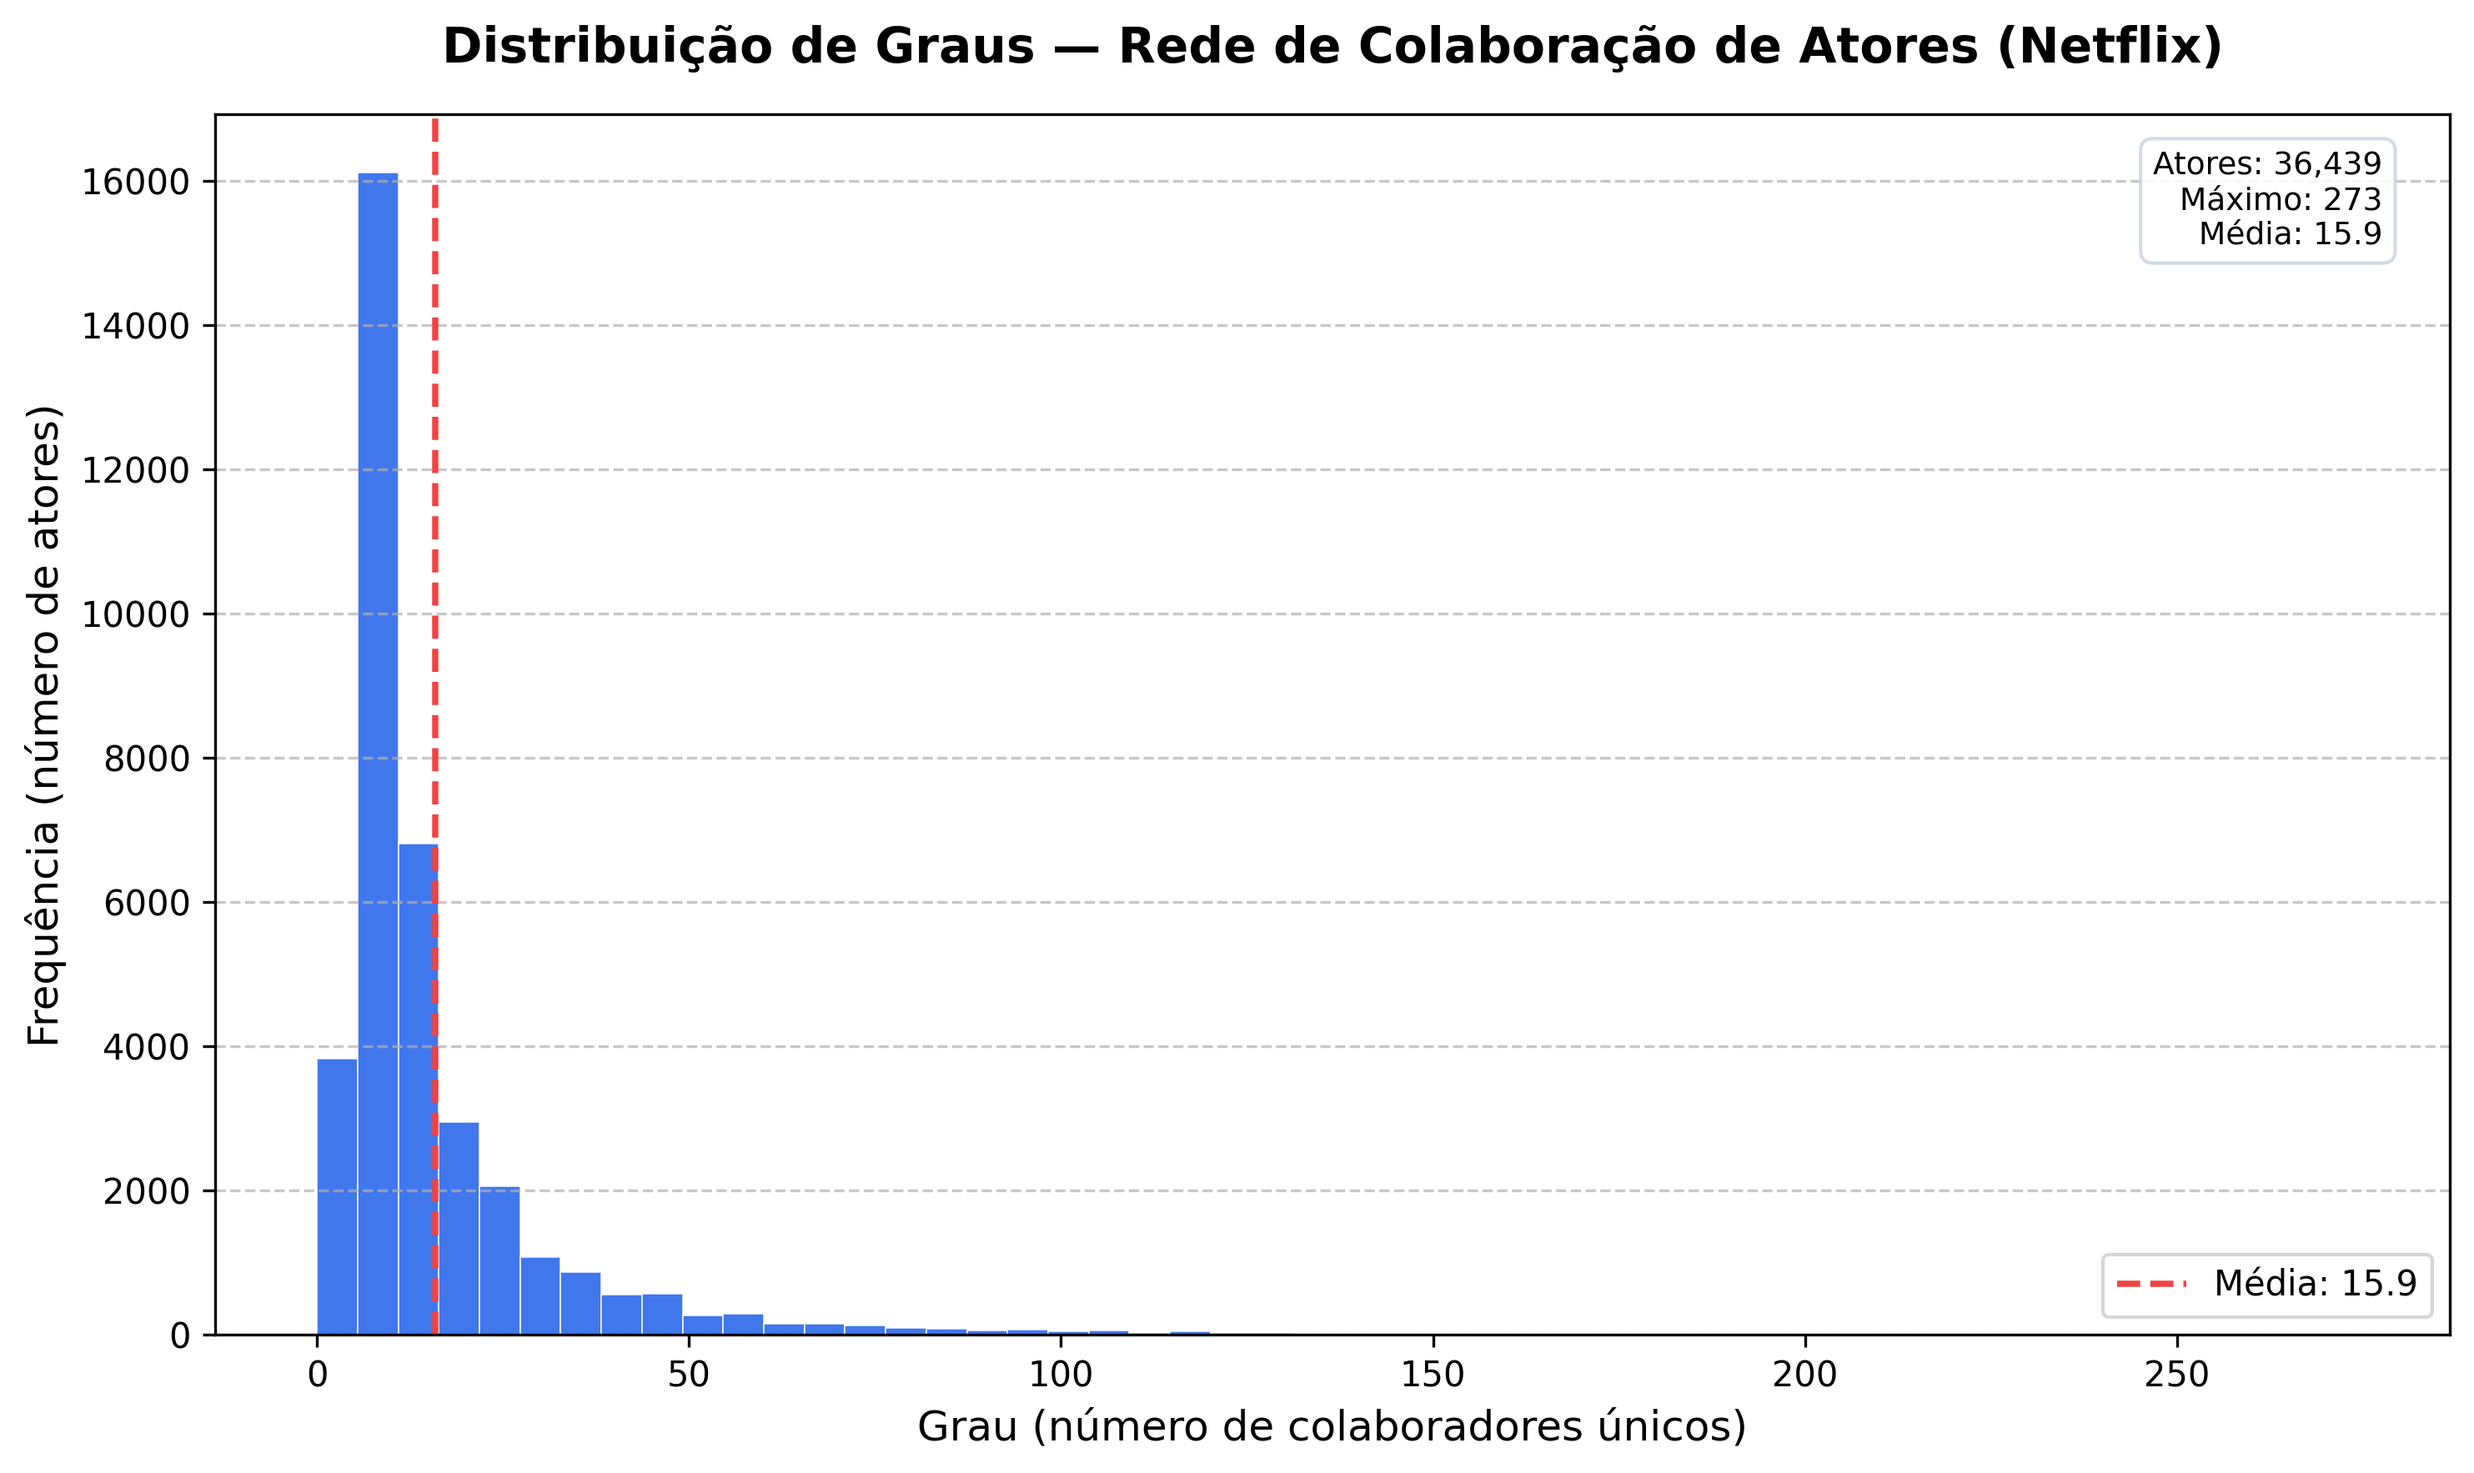
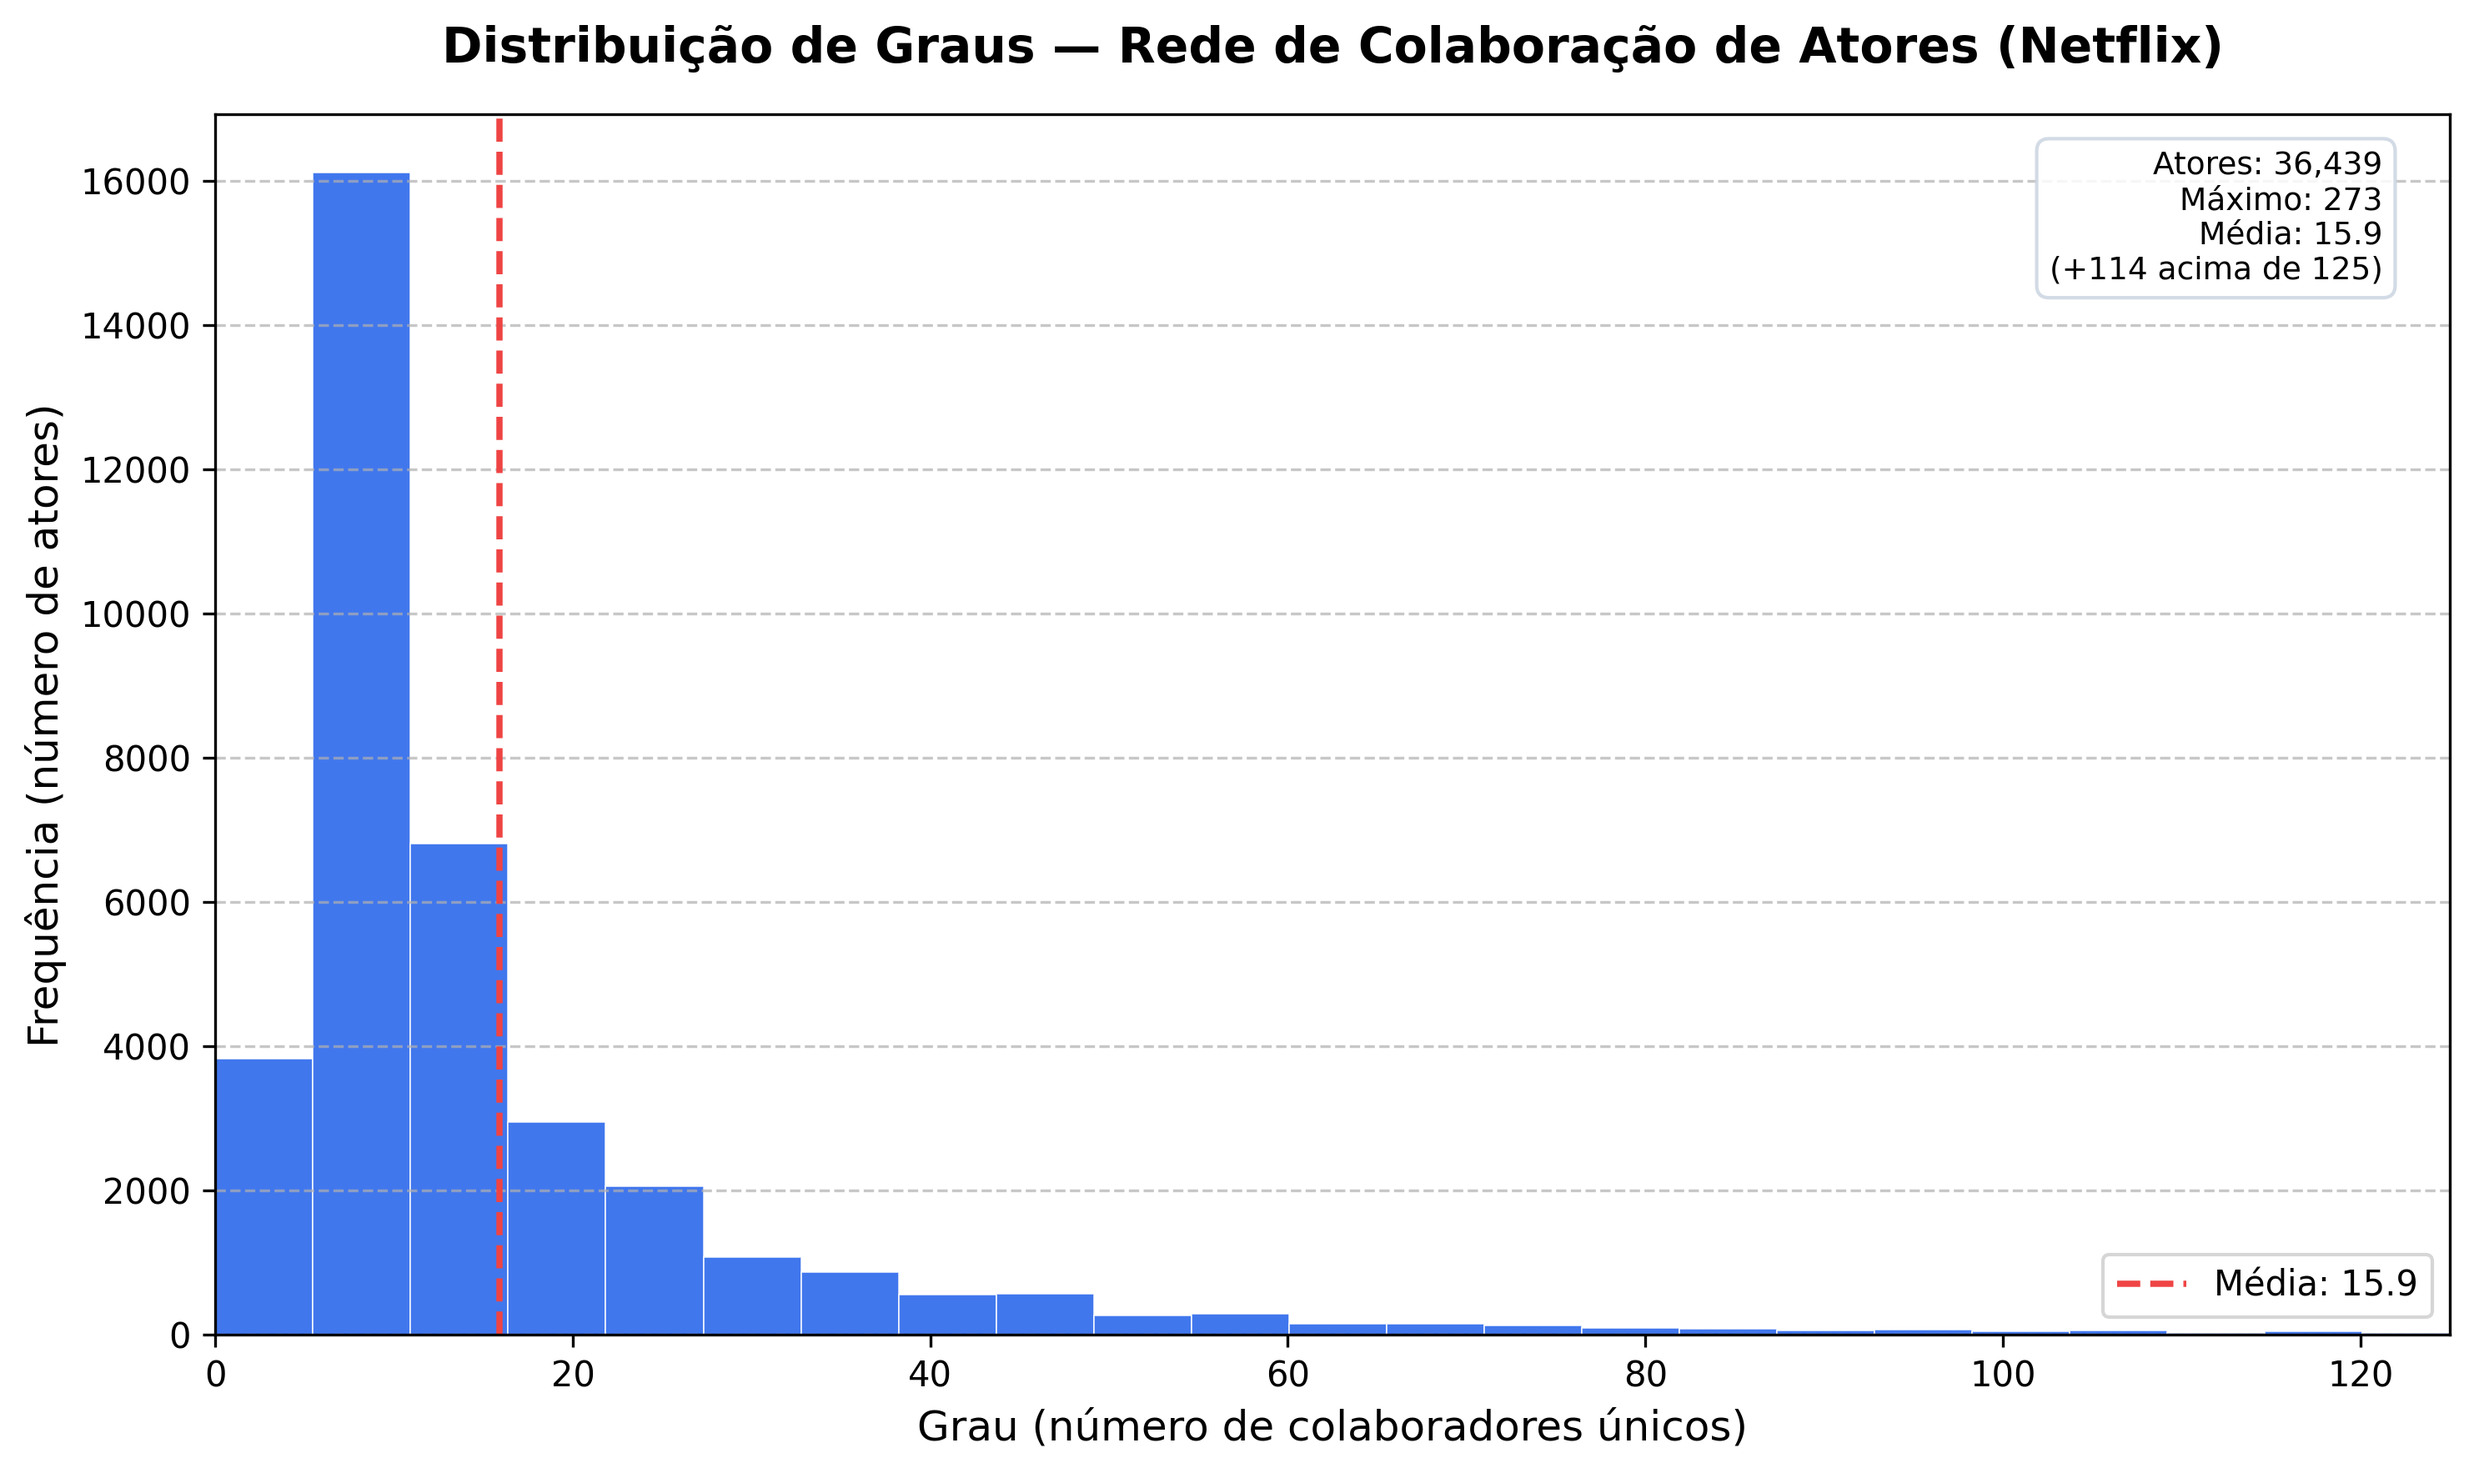
style: ajusta limites e titulos nos graficos da parte 2

diff --git a/src/solve.py b/src/solve.py
@@ -384,10 +384,12 @@ def gerar_distribuicao_graus_parte2(grafo, pasta_saida: str = 'out') -> str:
     )
     ax.set_xlabel('Grau (número de colaboradores únicos)', fontsize=12)
     ax.set_ylabel('Frequência (número de atores)', fontsize=12)
+    ax.set_xlim(0, 125)
     ax.grid(axis='y', linestyle='--', alpha=0.7)
     ax.legend(fontsize=10)
 
-    stats = f'Atores: {len(graus):,}\nMáximo: {maximo}\nMédia: {media:.1f}'
+    fora_janela = sum(1 for g in graus if g > 125)
+    stats = f'Atores: {len(graus):,}\nMáximo: {maximo}\nMédia: {media:.1f}\n(+{fora_janela} acima de 125)'
     ax.text(0.97, 0.97, stats, transform=ax.transAxes, fontsize=9,
             verticalalignment='top', horizontalalignment='right',
             bbox=dict(boxstyle='round,pad=0.4', facecolor='white', alpha=0.85, edgecolor='#cbd5e1'))
@@ -445,8 +447,8 @@ def gerar_heatmap_distancias_parte2(grafo, pasta_saida: str = 'out', top_n: int 
     ax.set_xticklabels(labels, rotation=45, ha='right', fontsize=9)
     ax.set_yticklabels(labels, fontsize=9)
     ax.set_title(
-        f'Heatmap de Distâncias BFS — Top {top_n} Atores Mais Conectados\n'
-        'Rede de Colaboração Netflix  (valor = hops mínimos entre atores)',
+        f'Quantos atores separam dois hubs da Netflix?\n'
+        f'Distâncias BFS entre os {top_n} atores mais conectados  (0 = mesmo ator)',
         fontsize=12, fontweight='bold', pad=15,
     )
     ax.set_xlabel('Ator (destino)', fontsize=11)
